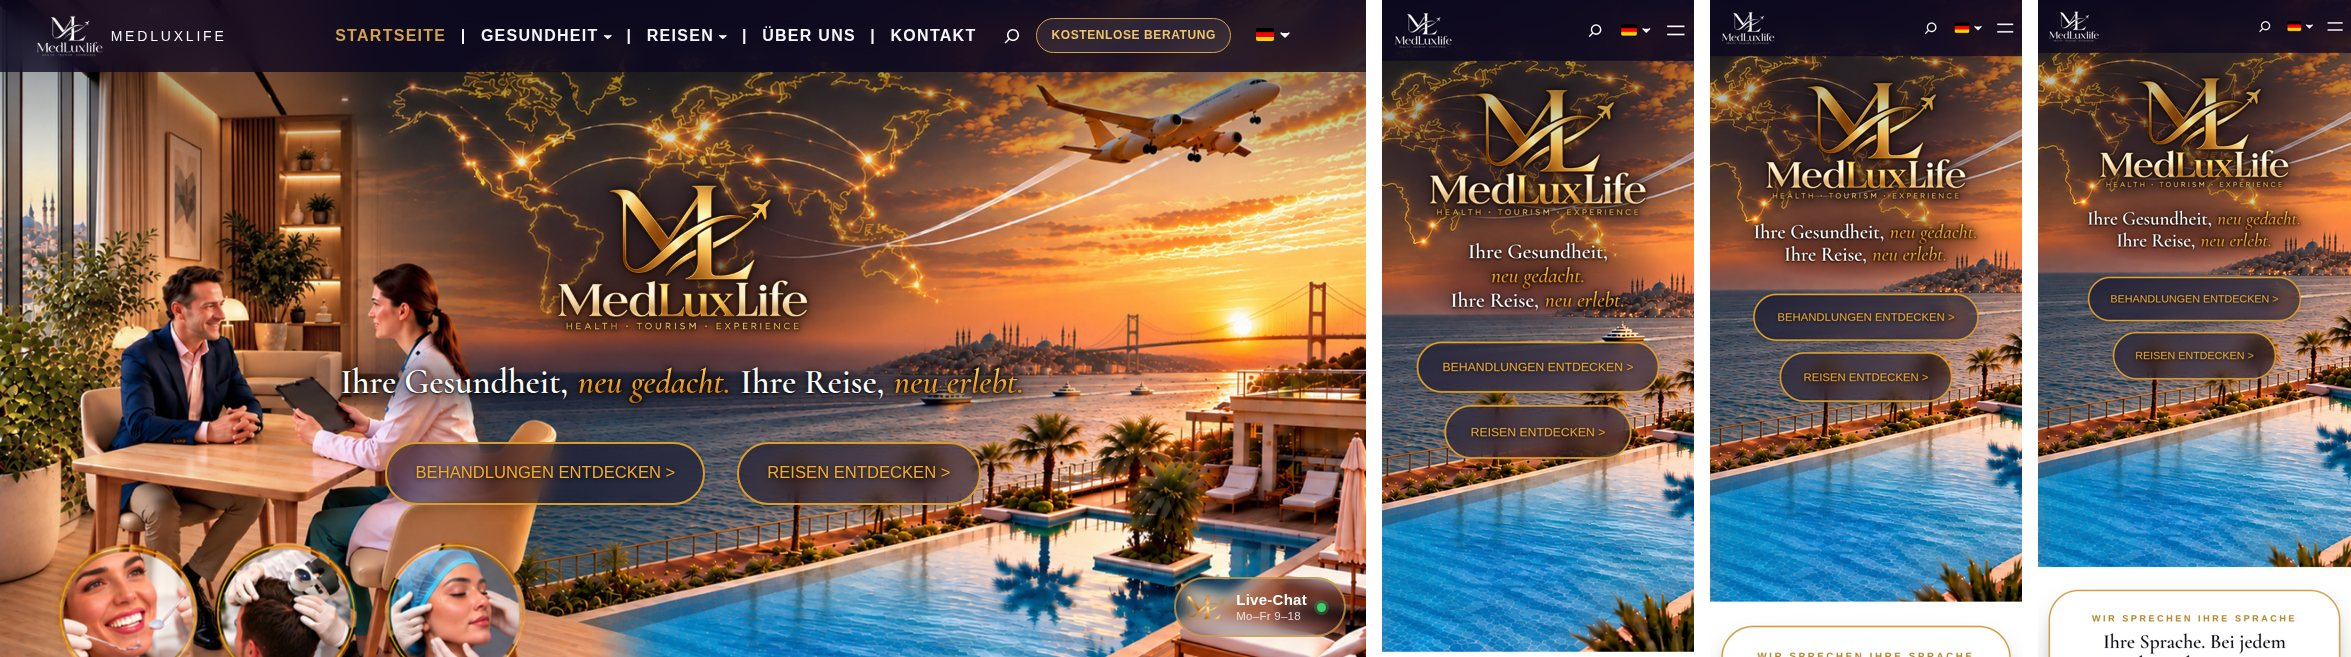
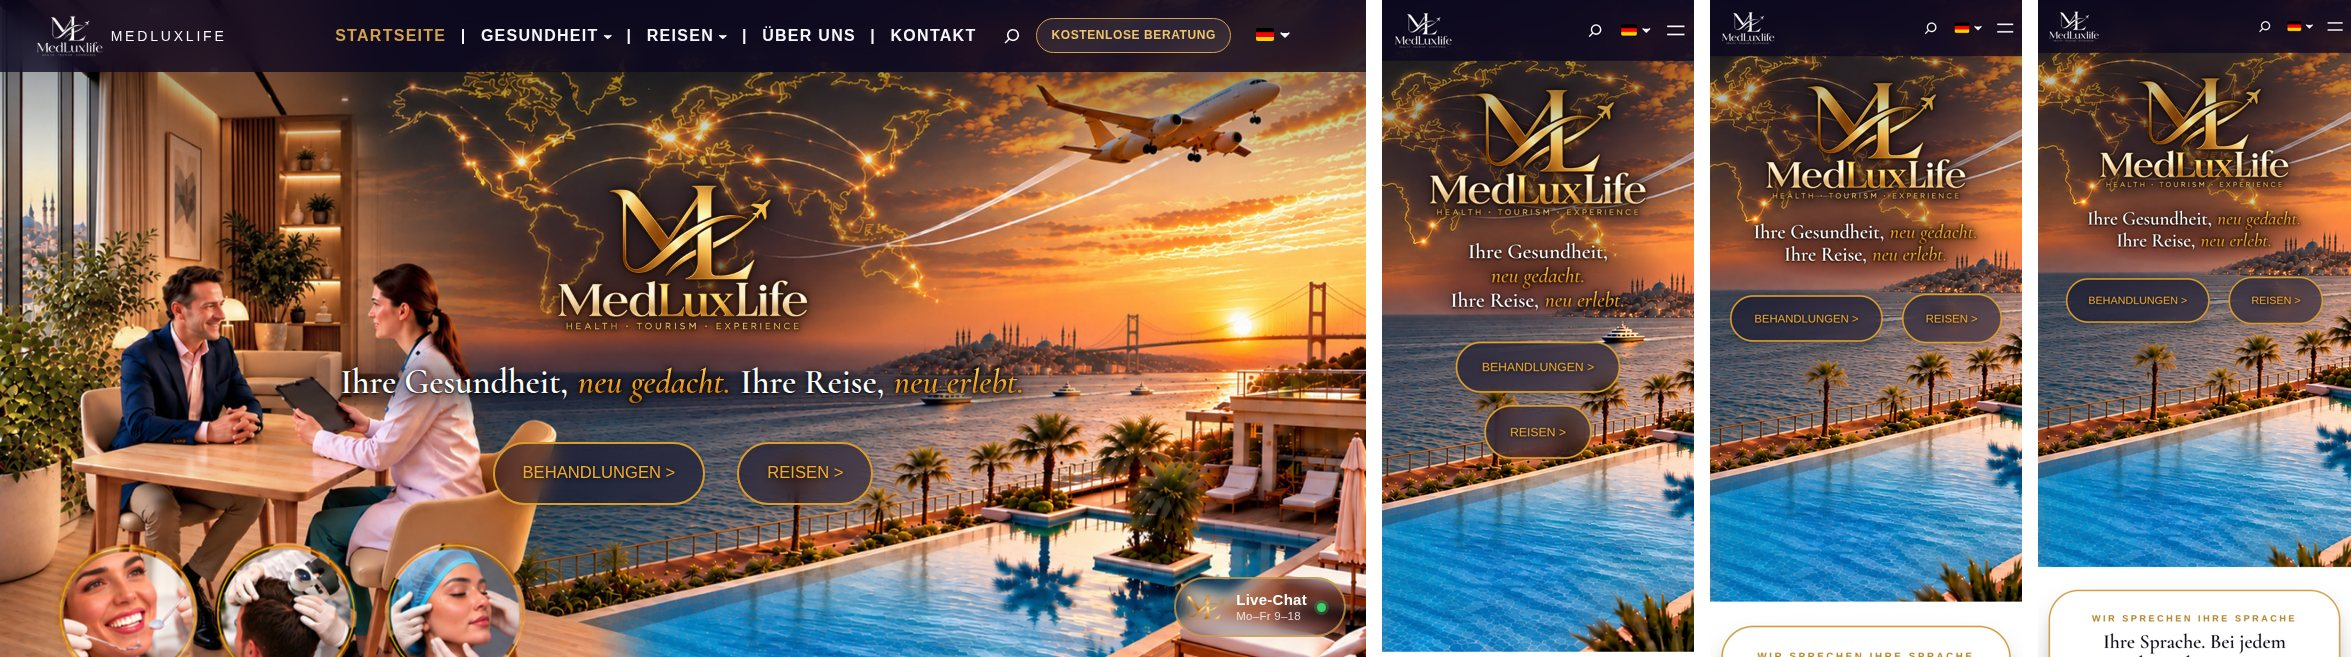
Home hero: Turkish "Seyahatiniz göklerde" and short buttons in German and Turkish
Claude-Session: https://claude.ai/code/session_01EVvR33Af5MGSBck832Nn7m

diff --git a/PROJECT.md b/PROJECT.md
@@ -680,5 +680,7 @@ Access: WP REST via https://medluxlife-6j8sz55bpn.live-website.com/wp-json (prox
 - 2026-10-19 – Anna CONFIRMED: German version without "Botox" (Faltenbehandlung etc.) and the localized search card names.
 - 2026-10-19 – Anna: Turkish home slogan → "Sağlığınız güvende. Yolculuğunuz göklerde." (pieces: "Sağlığınız" / "güvende." / "Yolculuğunuz" / "göklerde.", tr/site_ui.json; was "Sağlığınız, bir üst seviyede. Yolculuğunuz, unutulmaz."). Checked 1366 px laptop and 360/390/414 px phones: two clean lines on phones. Note given to Anna: "güvende" (= is safe) can read as a safety promise (HWG § 3 / Turkish health advertising rules); alternative offered. Screenshot `deliverables/tr_hero_slogan.jpg`.
 
+- 2026-10-19 – Anna: Turkish slogan word "Yolculuğunuz" → "Seyahat" (written "Seyahatiniz", the possessive form parallel to "Sağlığınız"): "Sağlığınız güvende. Seyahatiniz göklerde." Hero buttons short in both languages: TR "SAĞLIK >" / "SEYAHAT >", DE "BEHANDLUNGEN >" / "REISEN >". Checked laptop 1366 and phones 360/390/414 (DE 360 px: buttons on two rows, as before). Screenshots `deliverables/tr_hero_slogan.jpg`, `deliverables/de_hero_buttons.jpg`.
+
 ### KALICI KURAL (Anna, 2026-10-18): her yeni/ değişen metin otomatik olarak DE + TR çevrilir
 - Sitede eklenen veya değiştirilen her metin, aynı işin parçası olarak hemen Almanca ve Türkçeye çevrilir (onay beklemeden): sayfayı /de/ ve /tr/ altında bir kez aç (TranslatePress yeni metni sözlüğe ekler) → `python3 tools/trp_gap.py de_de` ve `tr_tr` (çevrilmemiş metinleri listeler) → yeni metinleri `content/translations/glossary.md` kurallarına göre çevir, `content/translations/de|tr/` altına kaydet → `python3 tools/trp.py push de_de|tr_tr <dosya>` → `trp_gap.py` ile tekrar kontrol. `[trp_language]` blokları (Ana Sayfa, Health, Contact, About) sayfanın içinde üç dilde düzenlenir. Yeni fotoğrafların alt metinleri: `python3 tools/alt_i18n.py collect` → `content/translations/de|tr/alts.json` içine çeviri → `alt_i18n.py push de_de` / `tr_tr` → `alt_i18n.py check de` / `tr`. Hukuki sayfalar (Almanca, bağlayıcı) çevrilmez.
